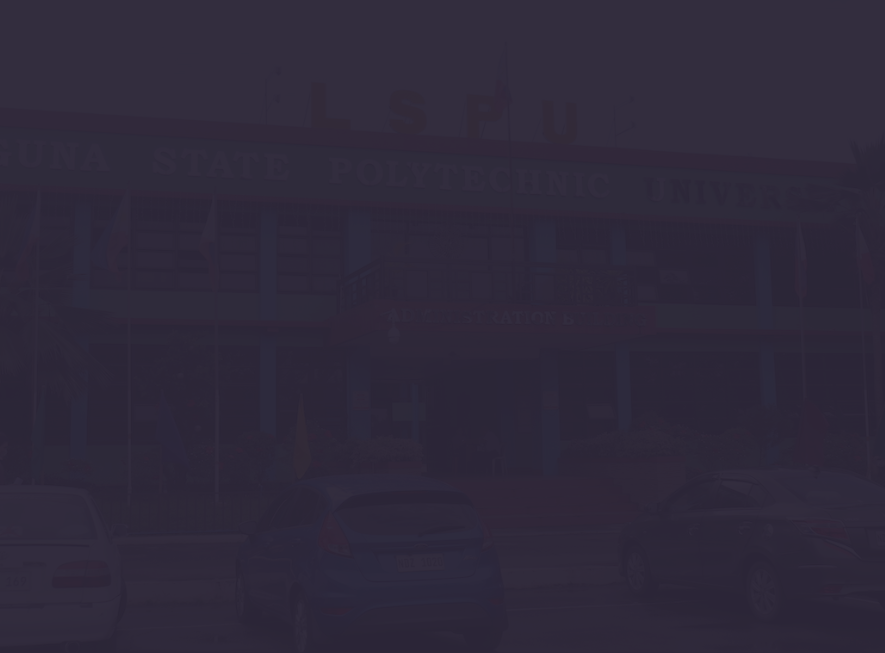
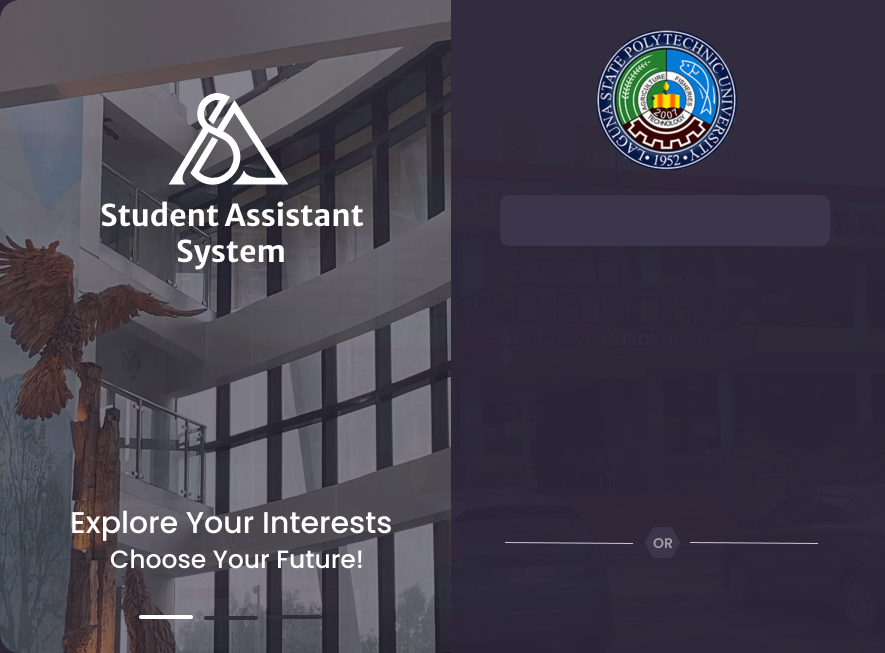
(03/30/2035)

diff --git a/Student Assistant/frmLogin.py b/Student Assistant/frmLogin.py
@@ -1,8 +1,7 @@
 import sys  
-from PyQt5.QtWidgets import QApplication, QWidget, QLabel, QLineEdit, QPushButton, QMessageBox, QCheckBox, QVBoxLayout
-from PyQt5.QtCore import QFile, QTextStream, Qt
+from PyQt5.QtWidgets import QApplication, QWidget, QLabel, QLineEdit, QPushButton, QMessageBox
+from PyQt5.QtCore import Qt, QFile, QTextStream
 from PyQt5.QtGui import QPainter, QPixmap, QPalette, QColor
-
 from db_connection import db_connect  # Import the database connection function
 
 class frmLogin(QWidget):
@@ -13,46 +12,41 @@ class frmLogin(QWidget):
         self.setWindowFlags(Qt.WindowType.FramelessWindowHint) # Remove title bar
         self.cp = 0  # Counter for failed attempts
 
-        layout = QVBoxLayout()
-        
-        # Username Label and Input
-        self.txtUser = QLineEdit()
+        # UsernameInput
+        self.txtUser = QLineEdit(self)
         self.txtUser.setPlaceholderText("Username")
         self.txtUser.setFixedSize(330, 51)
-        layout.addWidget(self.txtUser)
+        self.txtUser.move(500, 295)  # Adjust X and Y position
         
-        # Password Label and Input
-        self.txtPass = QLineEdit()
+        # Password Input
+        self.txtPass = QLineEdit(self)
         self.txtPass.setPlaceholderText("Password")
         self.txtPass.setFixedSize(330, 51)
         self.txtPass.setEchoMode(QLineEdit.Password)
-        layout.addWidget(self.txtPass)
+        self.txtPass.move(500, 372)  # Adjust X and Y position
 
         palette = self.txtUser.palette()
-        palette.setColor(QPalette.PlaceholderText, QColor(255, 255, 255, 128))  # White with 50% opacity
+        palette.setColor(QPalette.PlaceholderText, QColor(255, 255, 255, 77))  # 30% opacity
         self.txtUser.setPalette(palette)
         self.txtPass.setPalette(palette)
-        
-        # Show Password Checkbox
-        self.show_password = QCheckBox("Show Password")
-        self.show_password.stateChanged.connect(self.toggle_password)
-        layout.addWidget(self.show_password)
-        
+            
         # Login Button
-        self.btnLogin = QPushButton("Login")
+        self.btnLogin = QPushButton("Login", self)
         self.btnLogin.setFixedSize(330, 43)
+        self.btnLogin.move(500, 467)  # Adjust position
+        self.btnLogin.setObjectName("btnLogin")  # Assign a unique ID
         self.btnLogin.clicked.connect(self.login)
-        layout.addWidget(self.btnLogin)
-
-        # Exit Button
-        self.btnClose = QPushButton("Exit")
-        self.btnClose.clicked.connect(self.exit_app)
-        layout.addWidget(self.btnClose)
         
-        self.setLayout(layout)
+        # Exit Button
+        self.btnClose = QPushButton("X", self)
+        self.btnClose.setFixedSize(43, 37)  # Ensure consistency in size
+        self.btnClose.move(831, 13)  # Adjust position
+        self.btnClose.setObjectName("btnClose")  # Assign a unique ID
+        self.btnClose.clicked.connect(self.exit_app)
 
+        
         # Load external QSS file
-        self.load_stylesheet("Login.qss")
+        self.load_stylesheet("Login.qss")  # Ensure the stylesheet applies
         self.setStyleSheet("background-color: #2C2638;")
 
     def load_stylesheet(self, file_name):
@@ -63,14 +57,16 @@ class frmLogin(QWidget):
             qss = stream.readAll()
             self.setStyleSheet(qss)
             file.close()
+        else:
+            print("Failed to load QSS file")
 
     def paintEvent(self, event):
-        """Set a single, properly scaled background image with opacity."""
+        """Set a single, properly scaled background image."""
         painter = QPainter(self)
         pixmap = QPixmap("bgLogin.png")  # Ensure file exists
         if not pixmap.isNull():
             scaled_pixmap = pixmap.scaled(self.size(), Qt.KeepAspectRatioByExpanding, Qt.SmoothTransformation)
-            painter.setOpacity(1)  # 3% opacity
+            painter.setOpacity(1)
             painter.drawPixmap(self.rect(), scaled_pixmap)
 
     def toggle_password(self):
@@ -93,9 +89,9 @@ class frmLogin(QWidget):
             return
 
         # DATABASE CONNECTION ==================================================
-        con = db_connect()  # Connect to the database
+        con = db_connect()
         if con is None:
-            return  # Stop execution if connection fails
+            return
 
         cursor = con.cursor()
         cursor.execute("SELECT * FROM tbllogin WHERE Username = %s AND Password = %s", (username, password))
@@ -104,8 +100,7 @@ class frmLogin(QWidget):
 
         if result:
             QMessageBox.information(self, "Login Security", f"ACCESS GRANTED: Hi {username}! Welcome to Student Assistant System")
-            self.close()  # Close the login form
-            # Add code to open the main dashboard window
+            self.close()
         else:
             QMessageBox.critical(self, "Login Security", "ACCESS DENIED: Incorrect Username or Password")
             self.txtPass.clear()
@@ -122,9 +117,8 @@ class frmLogin(QWidget):
         if reply == QMessageBox.Yes:
             sys.exit()
 
-# Run the application
 if __name__ == "__main__":
-    app = QApplication(sys.argv)  # Initializing the App
-    window = frmLogin()  # Create window object
-    window.show()  # Display window
-    sys.exit(app.exec_())  # Start event loop
+    app = QApplication(sys.argv)
+    window = frmLogin()
+    window.show()
+    sys.exit(app.exec_())
